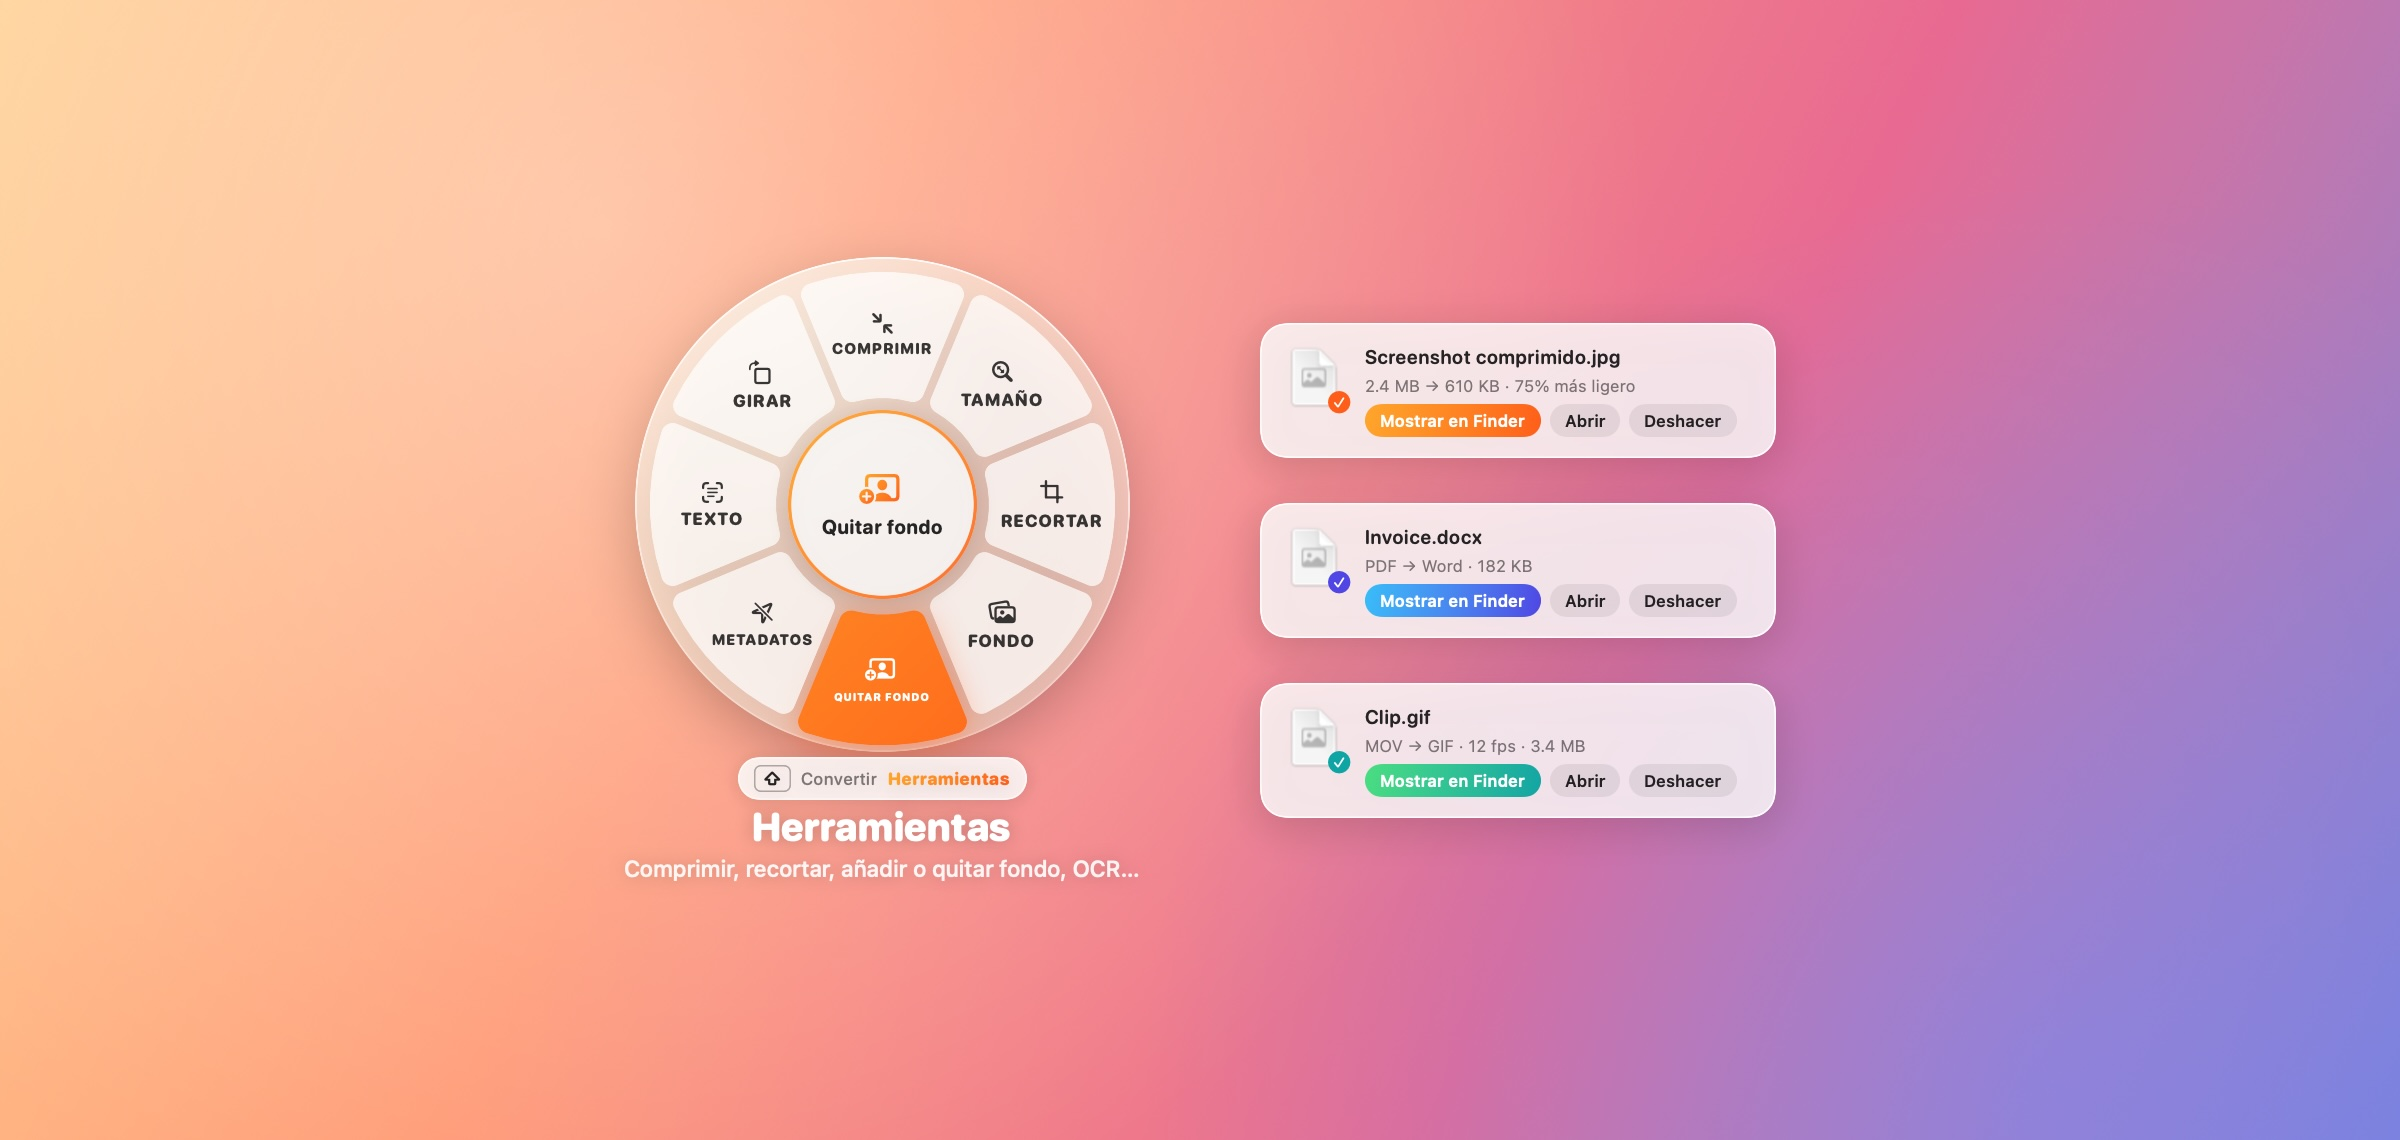
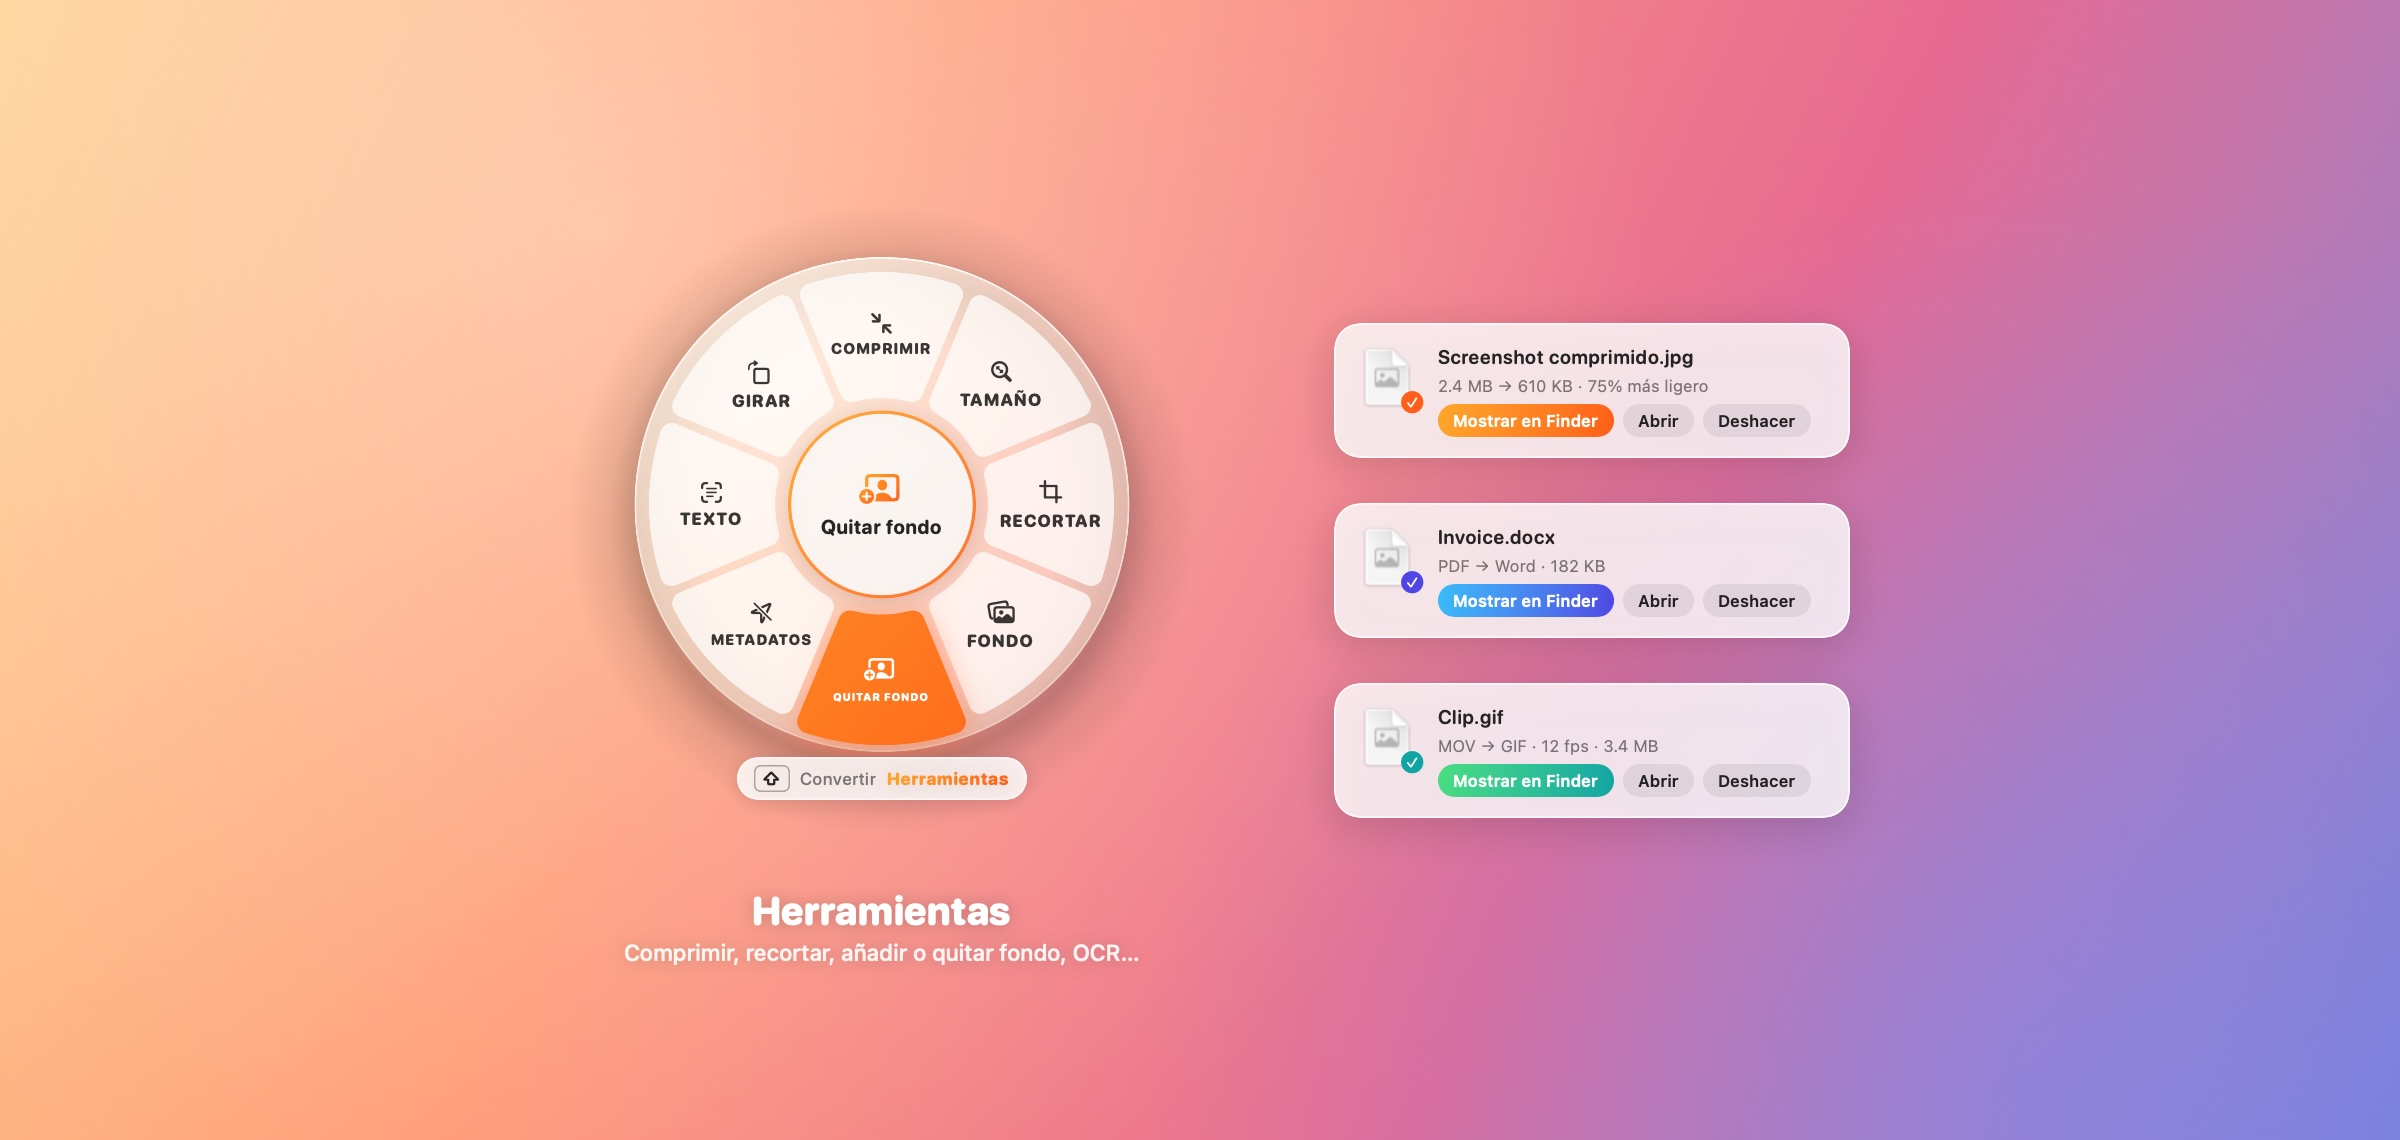
Open the ring instantly and keep it truly round

diff --git a/Sources/Kumquat/Ring/RingController.swift b/Sources/Kumquat/Ring/RingController.swift
@@ -14,7 +14,9 @@ private struct RingContainer: View {
     @ObservedObject var model: RingModel
 
     var body: some View {
-        RingView(model: model, theme: settings.theme)
+        var theme = settings.theme
+        theme.drawsBackdrop = false
+        return RingView(model: model, theme: theme)
     }
 }
 
@@ -25,10 +27,13 @@ final class RingController {
     let model = RingModel()
     private var panel: RingPanel?
     private var dropView: RingDropView?
+    /// The frosted glass, drawn by AppKit with a round mask (SwiftUI-hosted blur showed a square).
+    private let glass = RoundBlurView()
     private var hideWork: DispatchWorkItem?
     private var outsideClickMonitor: Any?
 
-    private let margin: CGFloat = 60
+    /// Room around the disc for the shadow and the hint pill.
+    private var margin: CGFloat { max(60, geometry.diameter * (RingGeometry.canvasScale - 1) / 2 + 10) }
     var isVisible: Bool { panel?.isVisible == true && model.shown }
 
     var geometry: RingGeometry { RingGeometry(diameter: SettingsStore.shared.ringSize) }
@@ -52,6 +57,7 @@ final class RingController {
             frame.origin.y = min(max(frame.minY, vf.minY), vf.maxY - side)
         }
         panel.setFrame(frame, display: false)
+        updateGlass()
         panel.allowsKey = mode == .click
         model.shown = false
         if mode == .click {
@@ -63,6 +69,10 @@ final class RingController {
             panel.orderFrontRegardless()
         }
         DispatchQueue.main.async { self.model.shown = true }
+        NSAnimationContext.runAnimationGroup { ctx in
+            ctx.duration = 0.16
+            glass.animator().alphaValue = 1
+        }
     }
 
     func hide(after delay: TimeInterval = 0) {
@@ -71,6 +81,10 @@ final class RingController {
             guard let self else { return }
             self.model.shown = false
             self.removeOutsideClickMonitor()
+            NSAnimationContext.runAnimationGroup { ctx in
+                ctx.duration = 0.15
+                self.glass.animator().alphaValue = 0
+            }
             DispatchQueue.main.asyncAfter(deadline: .now() + 0.2) {
                 if !self.model.shown {
                     self.panel?.orderOut(nil)
@@ -135,6 +149,62 @@ final class RingController {
         NSHapticFeedbackManager.defaultPerformer.perform(.alignment, performanceTime: .now)
     }
 
+    /// Debug helper: saves what the ring window looks like on screen.
+    func captureWindow(to url: URL) {
+        guard let number = panel?.windowNumber,
+              let handle = dlopen(nil, RTLD_NOW),
+              let sym = dlsym(handle, "CGWindowListCreateImage") else { return }
+        typealias Fn = @convention(c) (CGRect, UInt32, UInt32, UInt32) -> Unmanaged<CGImage>?
+        let create = unsafeBitCast(sym, to: Fn.self)
+        // Include what's below the ring so the glass and its edges are visible as users see them.
+        guard let image = create(.null, 1 << 2 /* onScreenBelowWindow */ | 1 << 3 /* includingWindow */, UInt32(number), 1 << 0)?.takeRetainedValue() else { return }
+        let rep = NSBitmapImageRep(cgImage: image)
+        try? rep.representation(using: .png, properties: [:])?.write(to: url)
+    }
+
+    /// Builds the panel ahead of time so the first ⇧ shows the ring instantly.
+    func prepare() {
+        _ = makePanelIfNeeded()
+    }
+
+    private func updateGlass() {
+        let settings = SettingsStore.shared
+        let d = geometry.diameter
+        // Centered with constraints so it always sits exactly under the disc.
+        glass.removeConstraints(glass.constraints)
+        if let root = glass.superview {
+            glass.translatesAutoresizingMaskIntoConstraints = false
+            NSLayoutConstraint.deactivate(root.constraints.filter { $0.firstItem === glass || $0.secondItem === glass })
+            NSLayoutConstraint.activate([
+                glass.centerXAnchor.constraint(equalTo: root.centerXAnchor),
+                glass.centerYAnchor.constraint(equalTo: root.centerYAnchor),
+                glass.widthAnchor.constraint(equalToConstant: d),
+                glass.heightAnchor.constraint(equalToConstant: d),
+            ])
+        }
+        // A rounded layer is what actually clips a behind-window blur to a circle here
+        // (maskImage is ignored in this transparent panel).
+        glass.wantsLayer = true
+        glass.layer?.cornerRadius = d / 2
+        glass.layer?.cornerCurve = .circular
+        glass.layer?.masksToBounds = true
+        let dark: Bool = {
+            switch settings.ringScheme {
+            case .dark: return true
+            case .light: return false
+            case .system: return NSApp.effectiveAppearance.bestMatch(from: [.darkAqua, .aqua]) == .darkAqua
+            }
+        }()
+        var native = settings.glassStyle == .frosted
+        if settings.glassStyle == .liquid {
+            // Liquid Glass is drawn by SwiftUI on macOS 26; older systems fall back to frosted.
+            if #available(macOS 26.0, *) { native = false } else { native = true }
+        }
+        glass.isHidden = !native
+        glass.material = dark ? .hudWindow : .popover
+        glass.appearance = NSAppearance(named: dark ? .vibrantDark : .vibrantLight)
+    }
+
     private func makePanelIfNeeded() -> RingPanel {
         if let panel { return panel }
         let p = RingPanel(contentRect: .init(x: 0, y: 0, width: 400, height: 400),
@@ -150,6 +220,10 @@ final class RingController {
         p.animationBehavior = .none
 
         let root = NSView()
+        glass.blendingMode = .behindWindow
+        glass.state = .active
+        glass.alphaValue = 0
+        root.addSubview(glass)
         let host = NSHostingView(rootView: RingContainer(model: model))
         host.translatesAutoresizingMaskIntoConstraints = false
         let drop = RingDropView(controller: self)

diff --git a/Sources/Kumquat/Drag/DragMonitor.swift b/Sources/Kumquat/Drag/DragMonitor.swift
@@ -3,10 +3,13 @@ import AppKit
 /// Watches for file drags anywhere on the Mac and reports when the trigger key is pressed mid-drag.
 ///
 /// How it works, without Accessibility permission:
-/// - A global mouse monitor notices `leftMouseDragged`.
-/// - The system drag pasteboard's `changeCount` tells us a new drag started, and what it carries.
-/// - While a drag is active, a 60 Hz timer polls `NSEvent.modifierFlags` (allowed without permission)
-///   and `NSEvent.pressedMouseButtons` to see when the drag ends.
+/// - A global monitor notices the mouse button going down.
+/// - While it's held, a 60 Hz timer polls the system drag pasteboard (`changeCount` tells us a
+///   drag started and what it carries), `NSEvent.modifierFlags` (allowed without permission) and
+///   `NSEvent.pressedMouseButtons`.
+///
+/// Polling matters: once Finder's drag session begins, macOS stops sending `leftMouseDragged`
+/// to other apps, so waiting for those events made the ring show up late or not at all.
 final class DragMonitor {
     var onTriggerDown: (([URL]) -> Void)?
     var onTriggerUp: (() -> Void)?
@@ -28,18 +31,38 @@ final class DragMonitor {
     func start() {
         guard monitors.isEmpty else { return }
         if let m = NSEvent.addGlobalMonitorForEvents(matching: .leftMouseDown, handler: { [weak self] _ in
-            guard let self else { return }
-            self.lastChangeCount = self.pasteboard.changeCount
+            self?.mouseDown()
         }) { monitors.append(m) }
+        // Dragged events still help when they do arrive (e.g. the first moves of a drag).
         if let m = NSEvent.addGlobalMonitorForEvents(matching: .leftMouseDragged, handler: { [weak self] _ in
-            self?.checkForNewDrag()
+            guard let self else { return }
+            if self.timer == nil { self.startPolling() }
+            self.checkForNewDrag()
         }) { monitors.append(m) }
     }
 
     func stop() {
         monitors.forEach(NSEvent.removeMonitor)
         monitors.removeAll()
+        stopPolling()
         endDrag()
+    }
+
+    private func mouseDown() {
+        lastChangeCount = pasteboard.changeCount
+        startPolling()
+    }
+
+    private func startPolling() {
+        guard timer == nil else { return }
+        let t = Timer(timeInterval: 1.0 / 60, repeats: true) { [weak self] _ in self?.tick() }
+        RunLoop.main.add(t, forMode: .common)
+        timer = t
+    }
+
+    private func stopPolling() {
+        timer?.invalidate()
+        timer = nil
     }
 
     private func checkForNewDrag() {
@@ -51,9 +74,6 @@ final class DragMonitor {
         isDragging = true
         // If the key was already held when the drag started, wait for a fresh press.
         triggerWasDown = triggerIsDown
-        let t = Timer(timeInterval: 1.0 / 60, repeats: true) { [weak self] _ in self?.tick() }
-        RunLoop.main.add(t, forMode: .common)
-        timer = t
     }
 
     private var triggerIsDown: Bool {
@@ -62,7 +82,12 @@ final class DragMonitor {
 
     private func tick() {
         guard NSEvent.pressedMouseButtons & 1 == 1 else {
+            stopPolling()
             endDrag()
+            return
+        }
+        if !isDragging {
+            checkForNewDrag()
             return
         }
         let down = triggerIsDown
@@ -73,8 +98,6 @@ final class DragMonitor {
     }
 
     private func endDrag() {
-        timer?.invalidate()
-        timer = nil
         guard isDragging else { return }
         isDragging = false
         dragURLs = []

diff --git a/Sources/Kumquat/App/AppDelegate.swift b/Sources/Kumquat/App/AppDelegate.swift
@@ -20,11 +20,21 @@ final class AppDelegate: NSObject, NSApplicationDelegate, NSMenuDelegate {
         NSUpdateDynamicServices()
         settings.applyLoginDefaultIfNeeded()
         WatchService.shared.start()
+        RingController.shared.prepare()
         Hotkey.shared.setEnabled(settings.hotkeyEnabled)
         UpdateChecker.shared.onChange = { [weak self] in self?.statusItem?.menu = self?.makeMenu() }
         UpdateChecker.shared.startAutomaticChecks()
 
-        if let i = CommandLine.arguments.firstIndex(of: "--self-test"), CommandLine.arguments.count > i + 1 {
+        if let i = CommandLine.arguments.firstIndex(of: "--capture-ring"), CommandLine.arguments.count > i + 2 {
+            // Debug: show the real ring and save a picture of its window (own windows need no permission).
+            let file = URL(fileURLWithPath: CommandLine.arguments[i + 1])
+            let out = URL(fileURLWithPath: CommandLine.arguments[i + 2])
+            RingController.shared.show(files: [file], at: NSPoint(x: 700, y: 500), mode: .drag)
+            DispatchQueue.main.asyncAfter(deadline: .now() + 1.2) {
+                RingController.shared.captureWindow(to: out)
+                NSApp.terminate(nil)
+            }
+        } else if let i = CommandLine.arguments.firstIndex(of: "--self-test"), CommandLine.arguments.count > i + 1 {
             runSelfTest(file: URL(fileURLWithPath: CommandLine.arguments[i + 1]))
         } else if CommandLine.arguments.contains("--demo-ring") {
             let files = CommandLine.arguments.drop { $0 != "--demo-ring" }.dropFirst().map { URL(fileURLWithPath: $0) }

diff --git a/Sources/Kumquat/Ring/GlassDisc.swift b/Sources/Kumquat/Ring/GlassDisc.swift
@@ -42,15 +42,19 @@ struct GlassDisc: View {
     @ViewBuilder
     private var base: some View {
         switch theme.glass {
+        case .frosted where !theme.drawsBackdrop:
+            SwiftUI.Color.clear
         case .liquid:
             #if compiler(>=6.2)
             if #available(macOS 26.0, *) {
                 Circle().fill(.clear).glassEffect(.regular, in: Circle())
-            } else {
+            } else if theme.drawsBackdrop {
                 BlurView(material: dark ? .hudWindow : .popover, dark: dark)
+            } else {
+                SwiftUI.Color.clear
             }
             #else
-            BlurView(material: dark ? .hudWindow : .popover, dark: dark)
+            if theme.drawsBackdrop { BlurView(material: dark ? .hudWindow : .popover, dark: dark) } else { SwiftUI.Color.clear }
             #endif
         case .frosted:
             BlurView(material: dark ? .hudWindow : .popover, dark: dark)
@@ -75,6 +79,15 @@ struct GlassDisc: View {
 final class RoundBlurView: NSVisualEffectView {
     override func layout() {
         super.layout()
+        updateMask()
+    }
+
+    override func setFrameSize(_ newSize: NSSize) {
+        super.setFrameSize(newSize)
+        updateMask()
+    }
+
+    private func updateMask() {
         let size = bounds.size
         guard size.width > 0, maskImage?.size != size else { return }
         maskImage = NSImage(size: size, flipped: false) { rect in

diff --git a/Sources/Kumquat/Ring/RingView.swift b/Sources/Kumquat/Ring/RingView.swift
@@ -53,11 +53,13 @@ struct RingView: View {
             hub
             if showsHint, model.progress == nil { hint.offset(y: geo.outerRadius + 16 * scale) }
         }
-        .frame(width: geo.diameter, height: geo.diameter)
-        .scaleEffect(model.shown ? 1 : 0.55)
-        .rotationEffect(.degrees(model.shown ? 0 : -25))
+        // Bigger than the disc: scale/rotation/opacity render into a layer clipped to this frame,
+        // and the soft shadow needs room or it gets cut into a square.
+        .frame(width: geo.diameter * RingGeometry.canvasScale, height: geo.diameter * RingGeometry.canvasScale)
+        .scaleEffect(model.shown ? 1 : 0.86)
+        .rotationEffect(.degrees(model.shown ? 0 : -12))
         .opacity(model.shown ? 1 : 0)
-        .animation(theme.animated ? .spring(response: 0.32, dampingFraction: 0.72) : nil, value: model.shown)
+        .animation(theme.animated ? .spring(response: 0.2, dampingFraction: 0.78) : nil, value: model.shown)
         .animation(theme.animated ? .spring(response: 0.25, dampingFraction: 0.7) : nil, value: model.hovered)
         .animation(theme.animated ? .spring(response: 0.3, dampingFraction: 0.8) : nil, value: model.page)
         .environment(\.colorScheme, dark ? .dark : .light)

diff --git a/Sources/Kumquat/Ring/RingModel.swift b/Sources/Kumquat/Ring/RingModel.swift
@@ -54,6 +54,8 @@ final class RingModel: ObservableObject {
 /// Ring measurements, shared by drawing and hit testing.
 struct RingGeometry {
     let diameter: CGFloat
+    /// The ring's drawing canvas relative to the disc, leaving room for its shadow.
+    static let canvasScale: CGFloat = 1.34
 
     var outerRadius: CGFloat { diameter / 2 }
     var hubRadius: CGFloat { diameter * 0.19 }

diff --git a/Sources/Kumquat/Settings/Theme.swift b/Sources/Kumquat/Settings/Theme.swift
@@ -31,6 +31,8 @@ struct Theme {
     var size: Double
     var labels: LabelStyle
     var scheme: RingScheme
+    /// False in the live ring, where the window draws the frosted blur itself (with a true round mask).
+    var drawsBackdrop = true
 
     var gradient: LinearGradient {
         LinearGradient(colors: [accent, accent2], startPoint: .topLeading, endPoint: .bottomTrailing)

diff --git a/CHANGELOG.md b/CHANGELOG.md
@@ -1,5 +1,11 @@
 # Changelog
 
+## 1.0.4 — 2026-10-18
+
+- ⇧ opens the ring instantly: Kumquat now watches the drag from the moment you press, instead of waiting for drag events macOS stops sending
+- The ring is truly round: the frosted glass is clipped to a circle and the shadow no longer gets cut into a square
+- Faster, snappier ring animation; the ring is prepared at launch
+
 ## 1.0.3 — 2026-10-18
 
 - "Update Now" button right in the update notification, and in Settings → About
